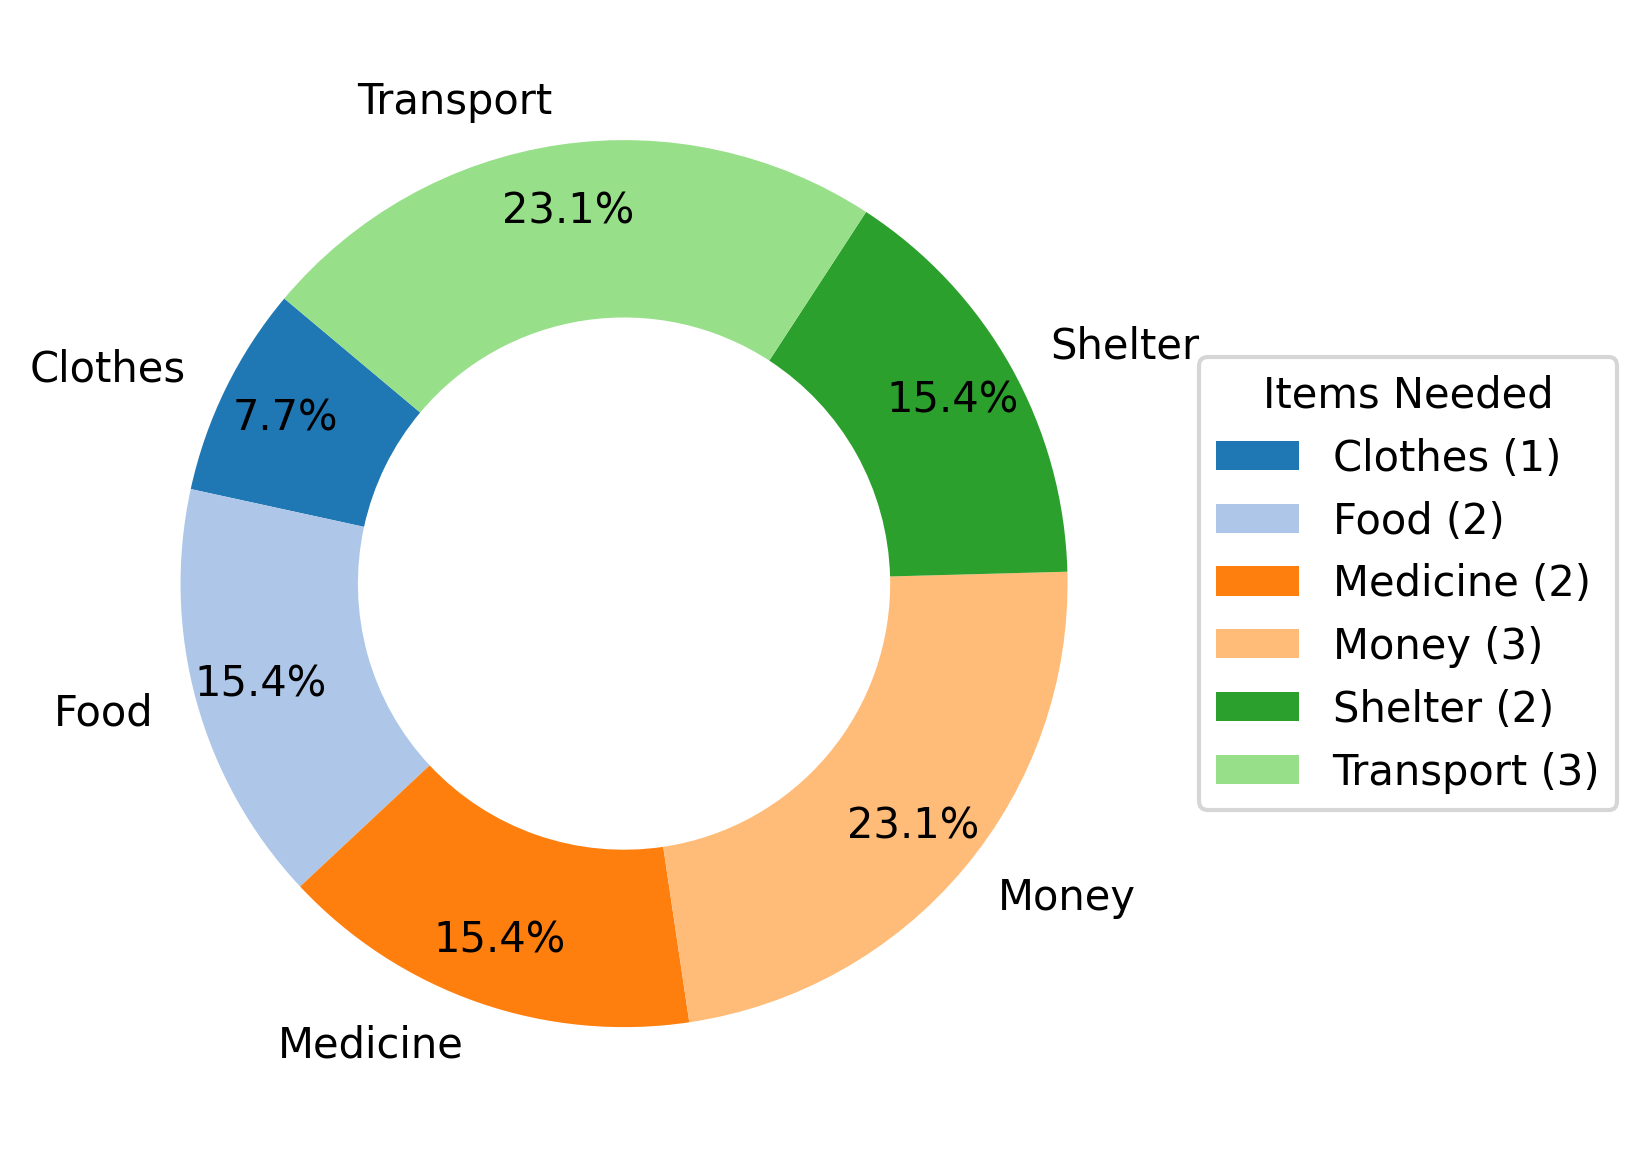
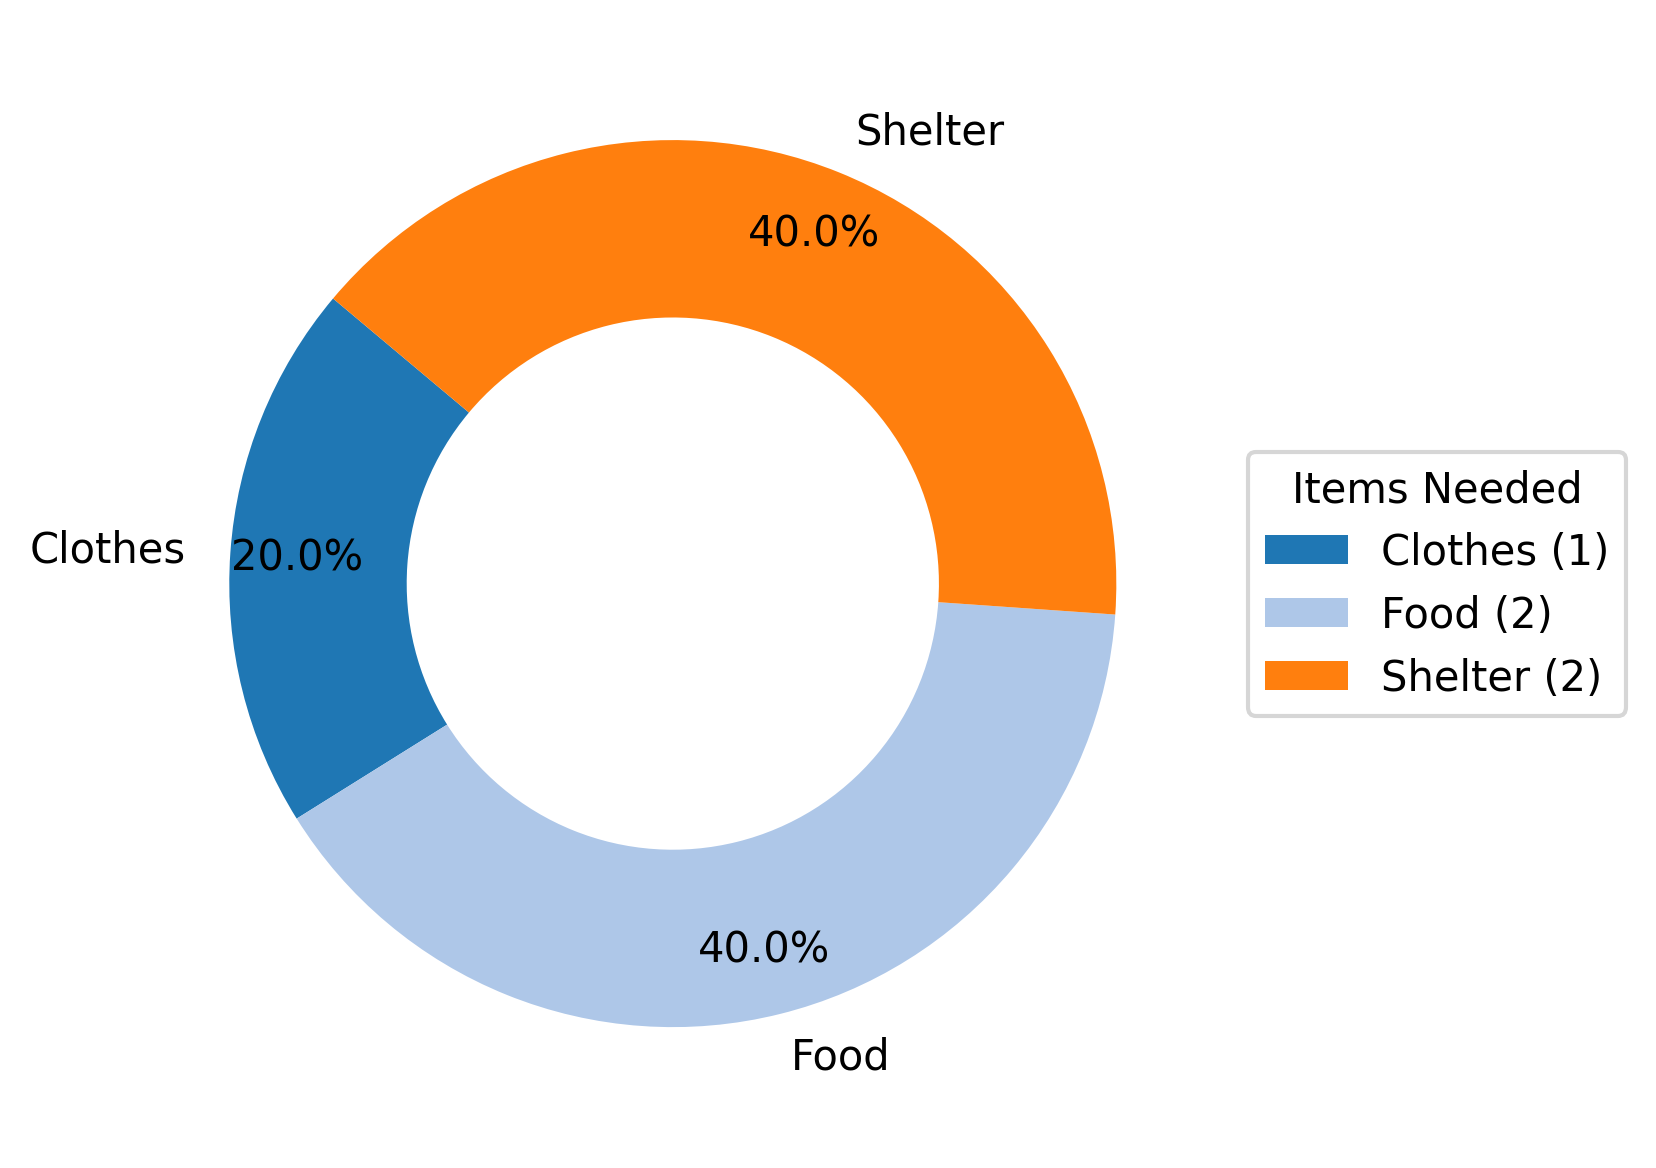
Implemented robust matching

Changed region(s): [[0.031, 0.0616, 0.9915, 0.9247], [0.7126, 0.6473, 0.9915, 0.7089]]

diff --git a/matcher.py b/matcher.py
@@ -1,5 +1,6 @@
 import database as db
 import ai_handler
+import time
 
 if __name__ == "__main__":
     # Initialize and connect to the database
@@ -37,12 +38,6 @@ if __name__ == "__main__":
     # else:
     #     print("Failed to create match.")
     
-    # 4. Check match status for victims and donors
-    # print("\nChecking match statuses:")
-    # print(f"Is John Doe matched? {db.is_victim_matched(conn, victim_id1)}")  # Expected: True
-    # print(f"Is Alice Brown matched? {db.is_victim_matched(conn, victim_id2)}")  # Expected: False
-    # print(f"Is Bob White matched? {db.is_donor_matched(conn, donor_id1)}")  # Expected: True
-    # print(f"Is Carol Green matched? {db.is_donor_matched(conn, donor_id2)}\n")  # Expected: False
 
     # 5. Retrieve all victims
     print("Retrieving all victims:")
@@ -70,7 +65,6 @@ if __name__ == "__main__":
         print(victim)
         requests.append((victim["id"], ", ".join(victim["resources"]), victim["description"]))
 
-
     # 8. Retrieve unmatched donors with resources
     print("\nRetrieving unmatched donors with resources:")
     unmatched_donors = db.get_unmatched_donors_with_resources(conn)
@@ -85,9 +79,50 @@ if __name__ == "__main__":
     print()
     print("Sample prompts: ")
     print()
-    # ai_handler.run_query(0, requests, provisions)
-    # ai_handler.run_query(1, requests, provisions)
-    ai_handler.run_query(2, requests, provisions)
+    for i in range( min(2, len(requests)) ):
+        # ai_handler.run_query(0, requests, provisions) # Trying claude
+        ai_handler.run_query(1, [requests[i]], provisions) # Trying openai
+        
+        # Gives api some time to rest
+        time.sleep(3)
+    
+    matches : tuple[int, int] = []
+
+    used = set()
+
+    with open("response.txt", "r") as f:
+        lines = f.readlines()
+        print(lines)
+        line_count = 0
+        for line in lines:
+            line = line.replace("Donor", "").replace("[", "").replace("]", "")
+            line = line.split(",")
+            try:
+                line = list(map(lambda x: int(x), line))
+
+                while len(line) > 0 and line[0] in used:
+                    line.pop(0)
+
+                if len(line) > 0:
+                    # Map the user id with the matching 
+                    matches.append((requests[line_count][0], line[0]))
+                    used.add(line[0])
+
+            except Exception as e:
+                print(f"Exception {e} occurred whilst reading from file")
+                pass
+
+            line_count += 1
+    
+    for match in matches:
+        db.mark_as_matched(conn, match[0], match[1])
+
+    # 4. Check match status for victims and donors
+    print("\nChecking match statuses:")
+    print(f"Is John Doe matched? {db.is_victim_matched(conn, 1)}")  # Expected: True
+    print(f"Is Alice Brown matched? {db.is_victim_matched(conn, 2)}")  # Expected: False
+    print(f"Is Bob White matched? {db.is_donor_matched(conn, 3)}")  # Expected: True
+    print(f"Is Carol Green matched? {db.is_donor_matched(conn, 4)}\n")  # Expected: False
 
     # Close the database connection
     db.close_connection(conn)

diff --git a/database.py b/database.py
@@ -607,23 +607,36 @@ if __name__ == "__main__":
     add_requested_resource(conn, victim_id2, "Shelter")
     add_requested_resource(conn, victim_id3, "Clothes")
     add_requested_resource(conn, victim_id4, "Food")
-    add_requested_resource(conn, victim_id4, "Shelter")
+    # add_requested_resource(conn, victim_id4, "Shelter")
+
+    # Add donors from different countries
+    donor_id1 = add_donor(conn, "Earnest", "earnest@example.com", "12345", "123 Street", "USA", "Offers food for 8")
+    donor_id2 = add_donor(conn, "Fiona", "fiona@example.com", "54321", "456 Avenue", "Canada", "Offers shelter for 5")
+    donor_id3 = add_donor(conn, "George", "george@example.com", "67890", "789 Boulevard", "Mexico", "Offers medium-sized clothes")
+    donor_id4 = add_donor(conn, "Helen", "helen@example.com", "13579", "101 Road", "USA", "Offers canned-foods and shelter")
+
+    # Add requested resources for each victim
+    add_donor_resource(conn, donor_id1, "Food")
+    add_donor_resource(conn, donor_id2, "Shelter")
+    add_donor_resource(conn, donor_id3, "Clothes")
+    add_donor_resource(conn, donor_id4, "Food")
+    # add_donor_resource(conn, victim_id4, "Shelter")
 
     # Mark some victims as helped (completed)
-    mark_as_matched(conn, victim_id1, donor_id=1)  # Assuming donor_id=1 is available
-    mark_as_matched(conn, victim_id2, donor_id=2)  # Assuming donor_id=2 is available
-    mark_as_matched(conn, victim_id4, donor_id=3)  # Assuming donor_id=3 is available
+    # mark_as_matched(conn, victim_id1, donor_id1)  # Assuming donor_id=1 is available
+    # mark_as_matched(conn, victim_id2, donor_id2)  # Assuming donor_id=2 is available
+    # mark_as_matched(conn, victim_id4, donor_id=3)  # Assuming donor_id=3 is available
 
     # Run the function to get helped countries' counts
-    result = get_helped_countries_counts(conn)
+    # result = get_helped_countries_counts(conn)
 
     # Expected result should be:
     # USA -> 3 (Alice's Food + Diana's Food + Diana's Shelter)
     # Canada -> 1 (Bob's Shelter)
-    print("Helped Countries Counts:", result)
+    # print("Helped Countries Counts:", result)
 
-    plot_helped_countries_heatmap(conn)
-    plot_to_help_countries_heatmap(conn)
+    # plot_helped_countries_heatmap(conn)
+    # plot_to_help_countries_heatmap(conn)
 
 
     # Close the connection

diff --git a/ai_handler.py b/ai_handler.py
@@ -1,5 +1,6 @@
 from uagents import Agent, Context, Model
 from uagents.setup import fund_agent_if_low
+import time
 
 class ContextPrompt(Model):
     context: str
@@ -61,7 +62,7 @@ def run_query(ai_id: int, recipient_information: list[tuple[int, str, str]], don
 
         # Split prompts into context and text, for open-ai
         prompts = [
-            ("List the ids of the donors in order of who best matches the benefactor, with no additional information.",
+            ("List the ids of the donors in order of who best matches the benefactor, with no additional information, in the format [best_donor_match, second_best_donor_match, third_best_donor_match, ...]",
              f"Benefactor - I need {required_resources}. Additionally: {extra_information}. {". ".join([f"Donor {id} offers {resources}. Additionally {extra}" for id, resources, extra in donor_information])}"
             )
             for _, required_resources, extra_information in recipient_information   
@@ -71,8 +72,8 @@ def run_query(ai_id: int, recipient_information: list[tuple[int, str, str]], don
         print(prompt)
 
     print(agent.address)
-    """
 
+    """
     fund_agent_if_low(agent.wallet.address())
 
     # When the fetch agent starts up it sends a prompt
@@ -94,7 +95,8 @@ def run_query(ai_id: int, recipient_information: list[tuple[int, str, str]], don
             ctx.logger.info(msg.text)
 
             with open("response.txt", "a") as f:
-                f.write(msg.text)             
+                f.write(msg.text + "\n")   
+            time.sleep(5)          
     else:
         @agent.on_message(model = Response)
         async def handle_response(ctx: Context, sender: str, msg: Response):
@@ -102,7 +104,8 @@ def run_query(ai_id: int, recipient_information: list[tuple[int, str, str]], don
             ctx.logger.info(msg.text)
 
             with open("response.txt", "a") as f:
-                f.write(msg.text)
+                f.write(msg.text + "\n")       
+            time.sleep(5)
 
     agent.run()
     """
